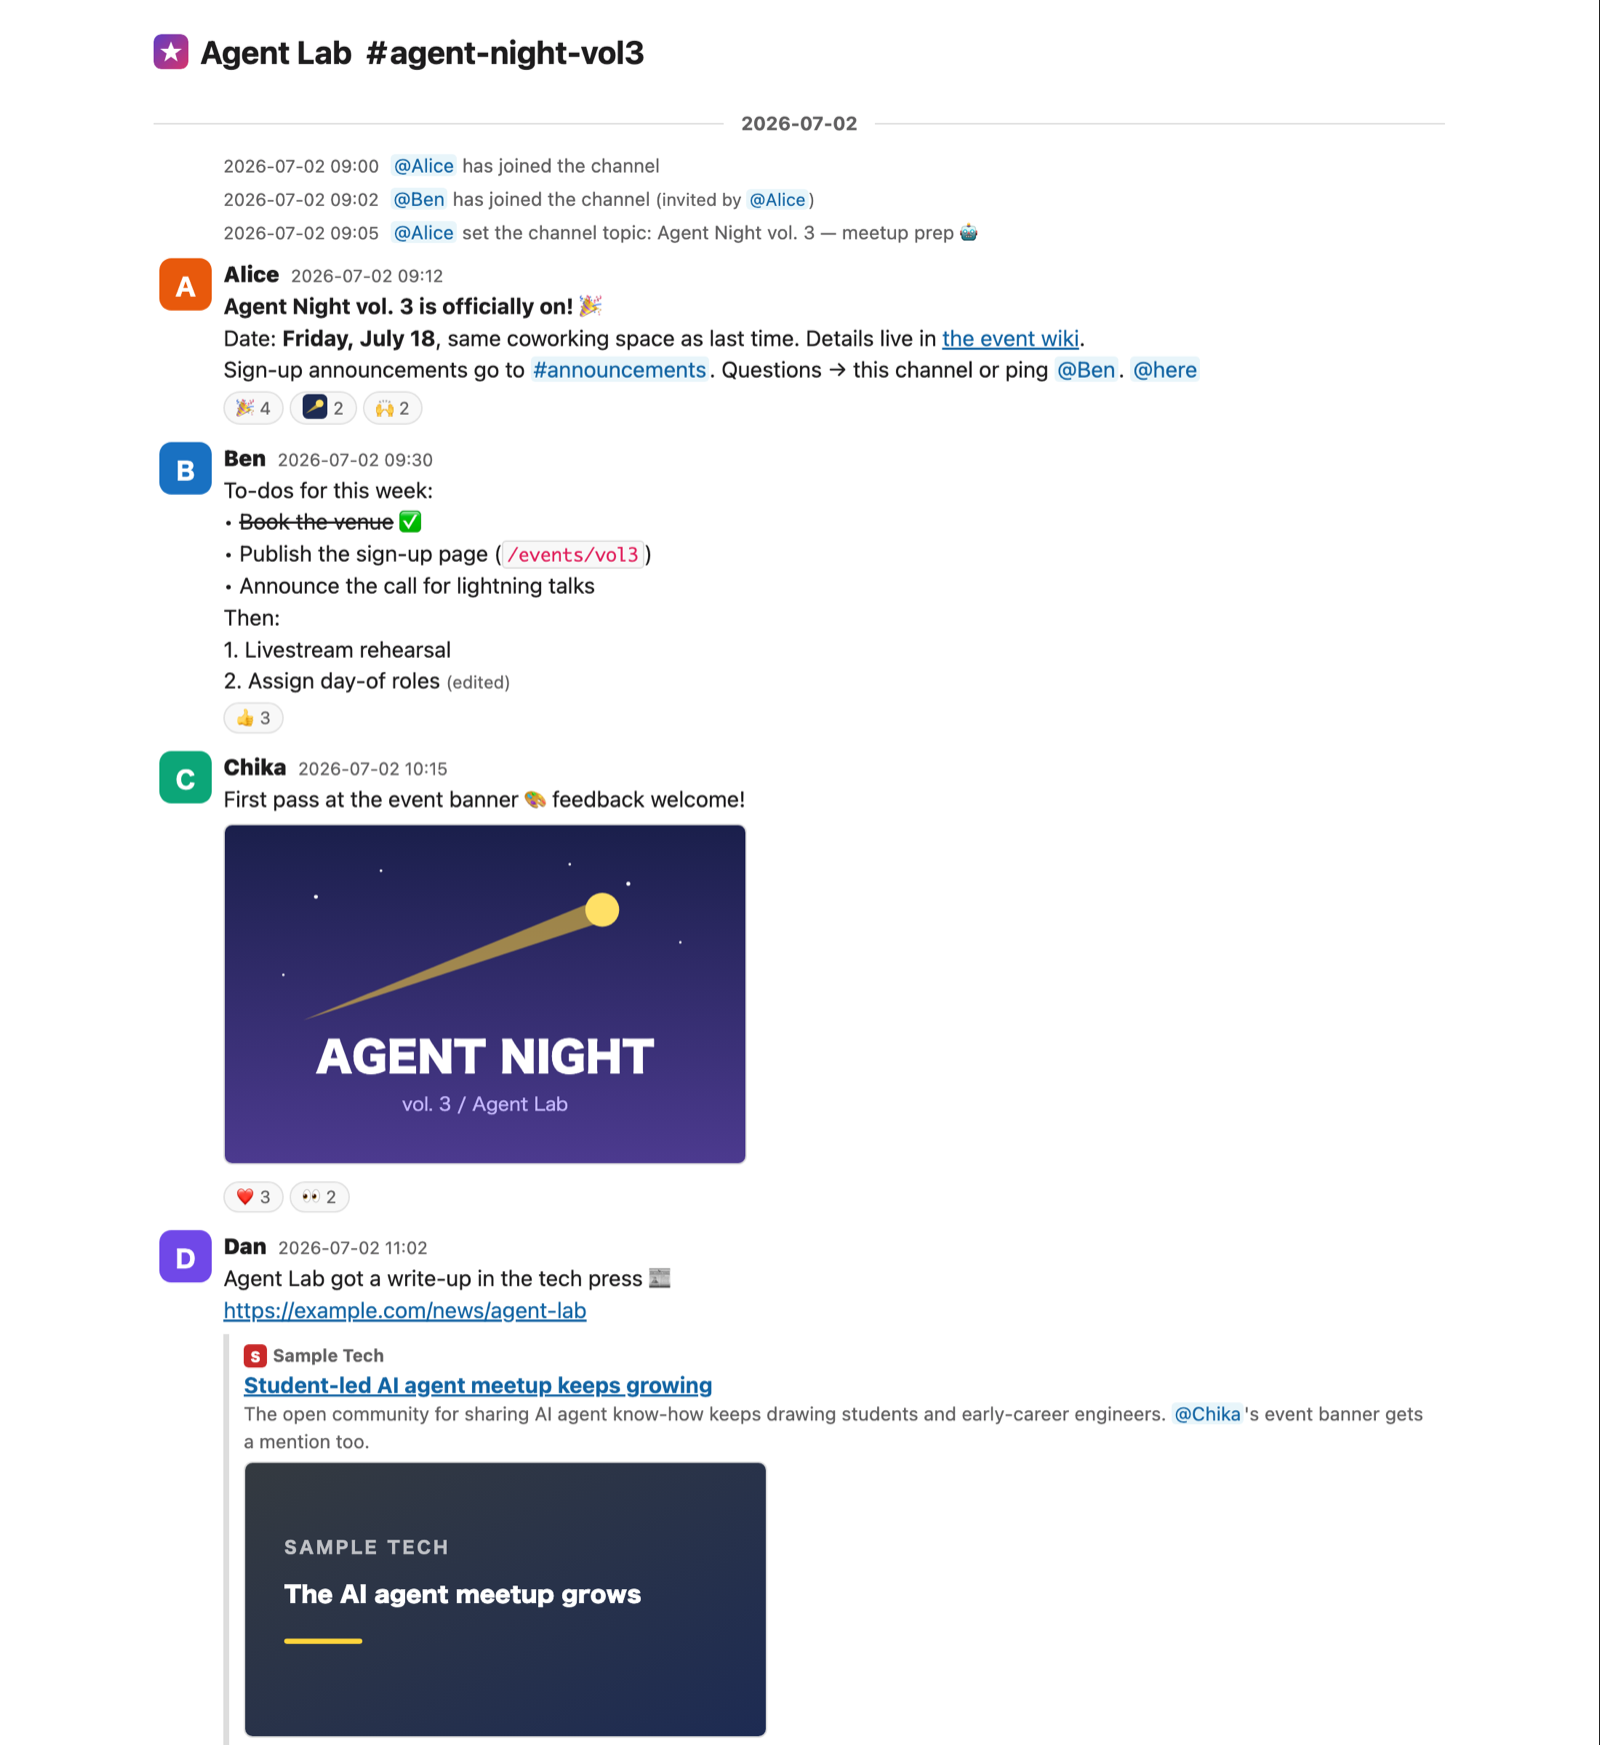
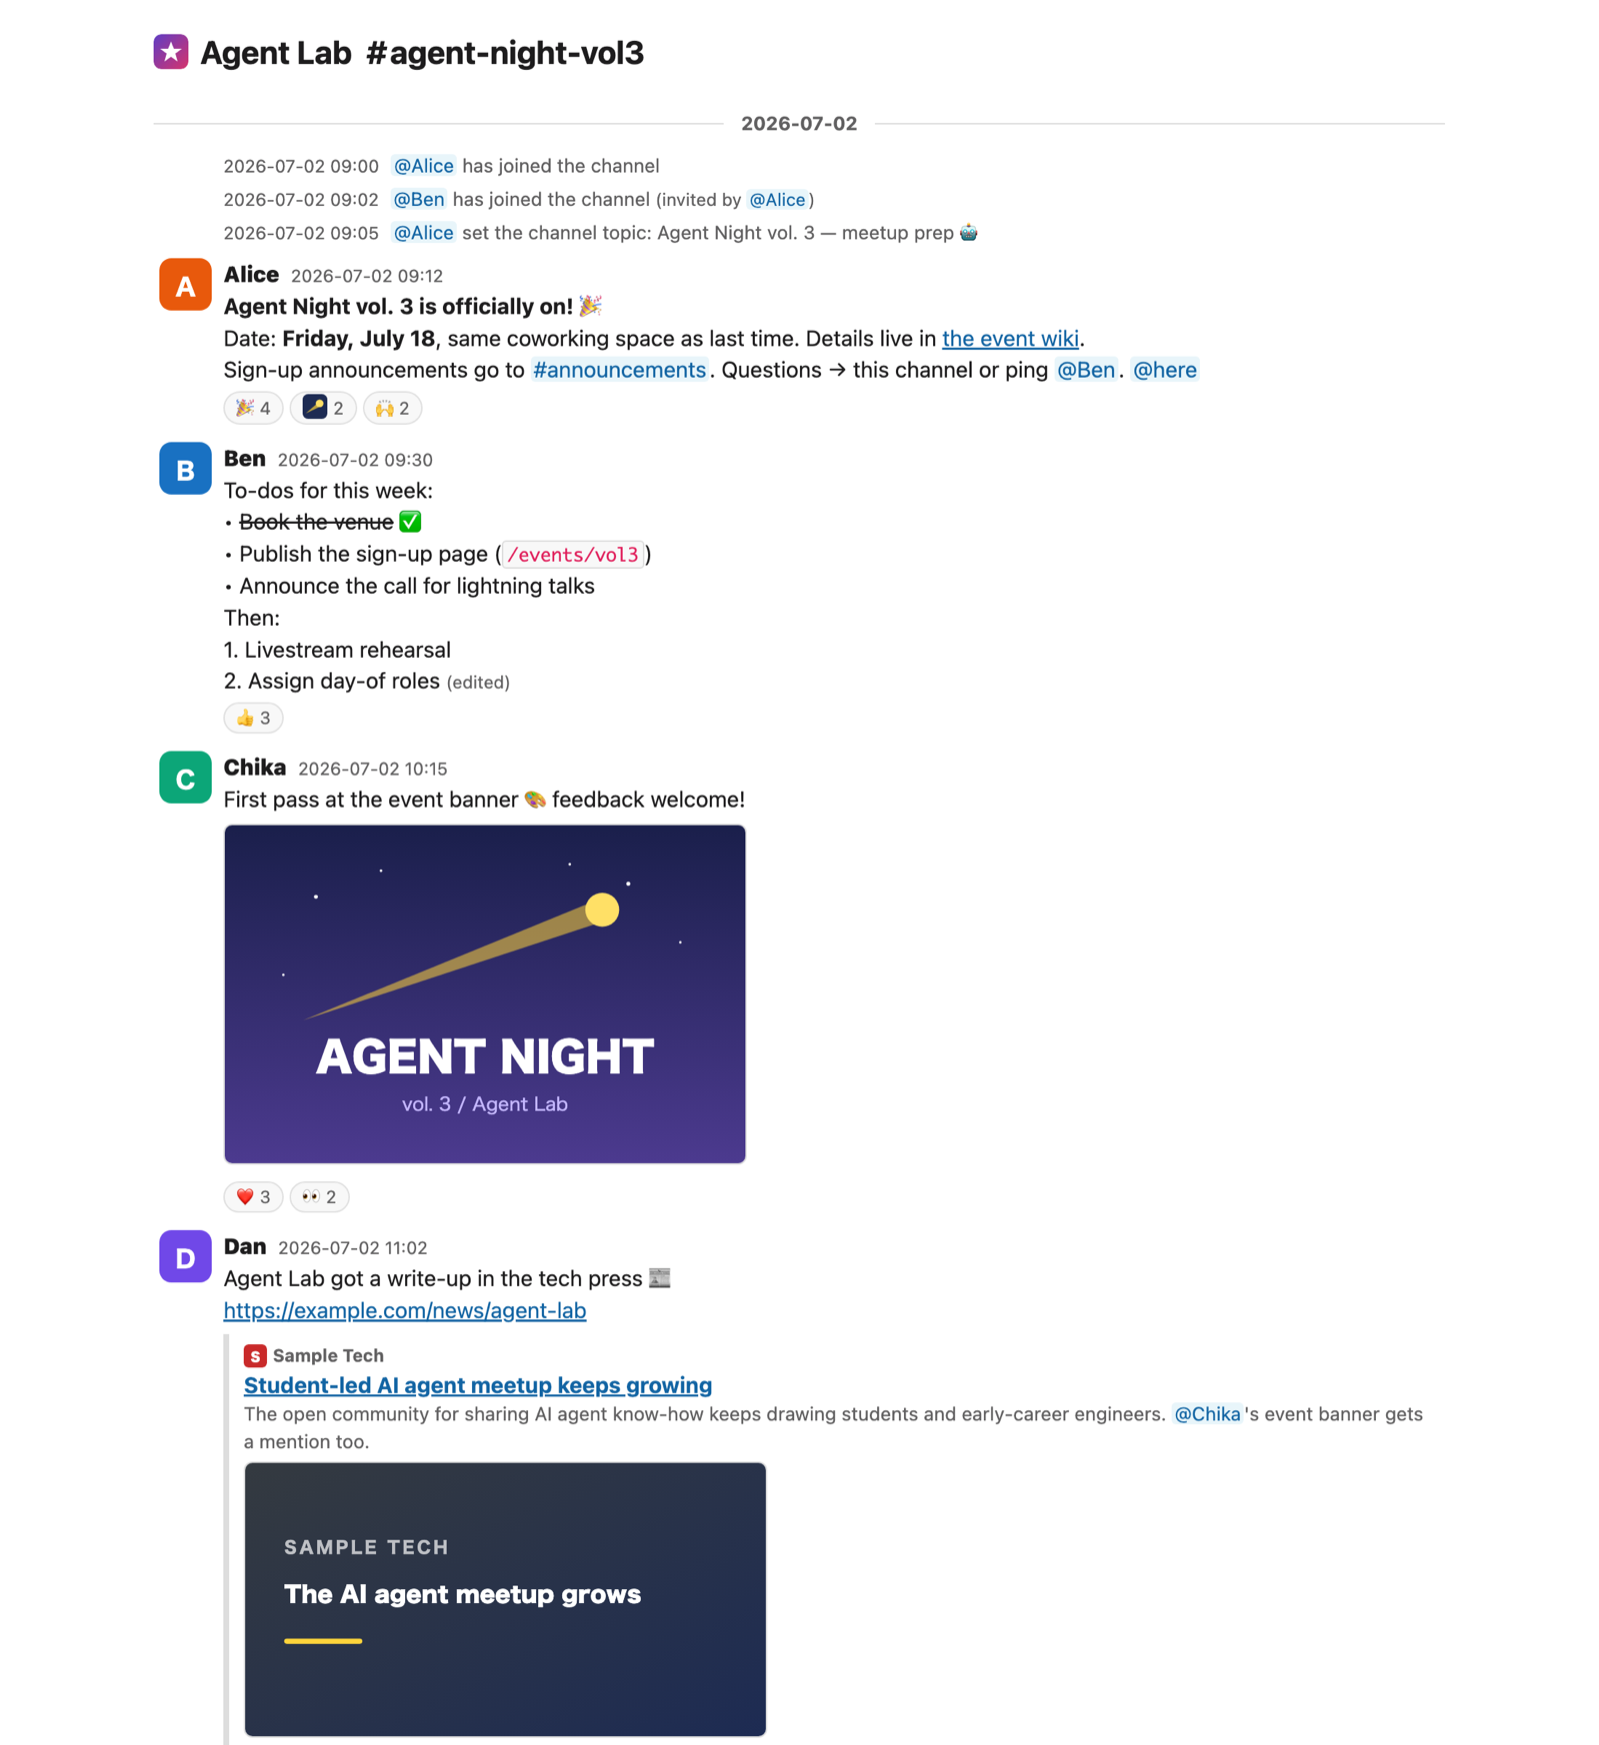
Remove README preview edge line

diff --git a/working-branch-notes/draft_issue-132-readme-preview-black-line.md b/working-branch-notes/draft_issue-132-readme-preview-black-line.md
@@ -1,0 +1,41 @@
+# 作業ブランチメモ
+
+- ブランチ: issue-132-readme-preview-black-line
+- PR: -
+- 最終更新: 2026-07-05
+
+## 目的
+
+Issue #132。README の出力プレビュー画像の右端に不要な黒いラインが出ている問題を修正する。
+
+## 現在の状況
+
+- Issue #132 は open。ラベル・コメント・sub-issue はなし。
+- `progress.md` の進行中タスク索引には未登録の単発 Issue として扱う。
+- README の出力プレビューは `assets/screenshots/sample-timeline-ja.png` と `assets/screenshots/sample-thread-ja.png` を HTML table の 2 カラムで表示している。
+- 修正完了。`sample-timeline-ja.png` と同じ問題が英語版 `sample-timeline-en.png` にもあったため、両方を同じ内容で修正した。
+
+## 決定事項
+
+- 画像アセット自体の右端 1px が不要な濃色列になっていたため、README の HTML ではなく画像を修正する。
+- README 直接参照は日本語版のみだが、同じ生成物セットとして英語版 timeline 画像も揃えて修正する。
+
+## 次にやること
+
+- PR 作成。
+
+## 検証
+
+- `file assets/screenshots/sample-timeline-ja.png assets/screenshots/sample-timeline-en.png`: どちらも `1599 x 1745` の PNG として読めることを確認。
+- PNG pixel 検査: 修正前は `sample-timeline-ja.png` / `sample-timeline-en.png` の右端列が全行 `(35, 35, 35)`、修正後は全行 `(255, 255, 255)`。
+- 画像表示確認: `sample-timeline-ja.png` / `sample-timeline-en.png` を表示し、右端の不要な縦線が消えていることを確認。
+- コード変更なしのため go test / build は未実施。
+
+## リスク・ブロッカー
+
+- `git fetch origin main` は SSH/1Password 承認待ちと思われる無出力状態になったため中断。ローカル `main` / `origin/main` は同一 SHA で、GitHub connector で同 commit が存在することは確認済み。
+
+## セッションログ
+
+- 2026-07-05: Issue #132 を確認し、ブランチ `issue-132-readme-preview-black-line` を作成。README の対象画像参照を確認。
+- 2026-07-05: `assets/screenshots/sample-timeline-ja.png` / `sample-timeline-en.png` の右端 1px を crop し、不要な濃色列を除去。
